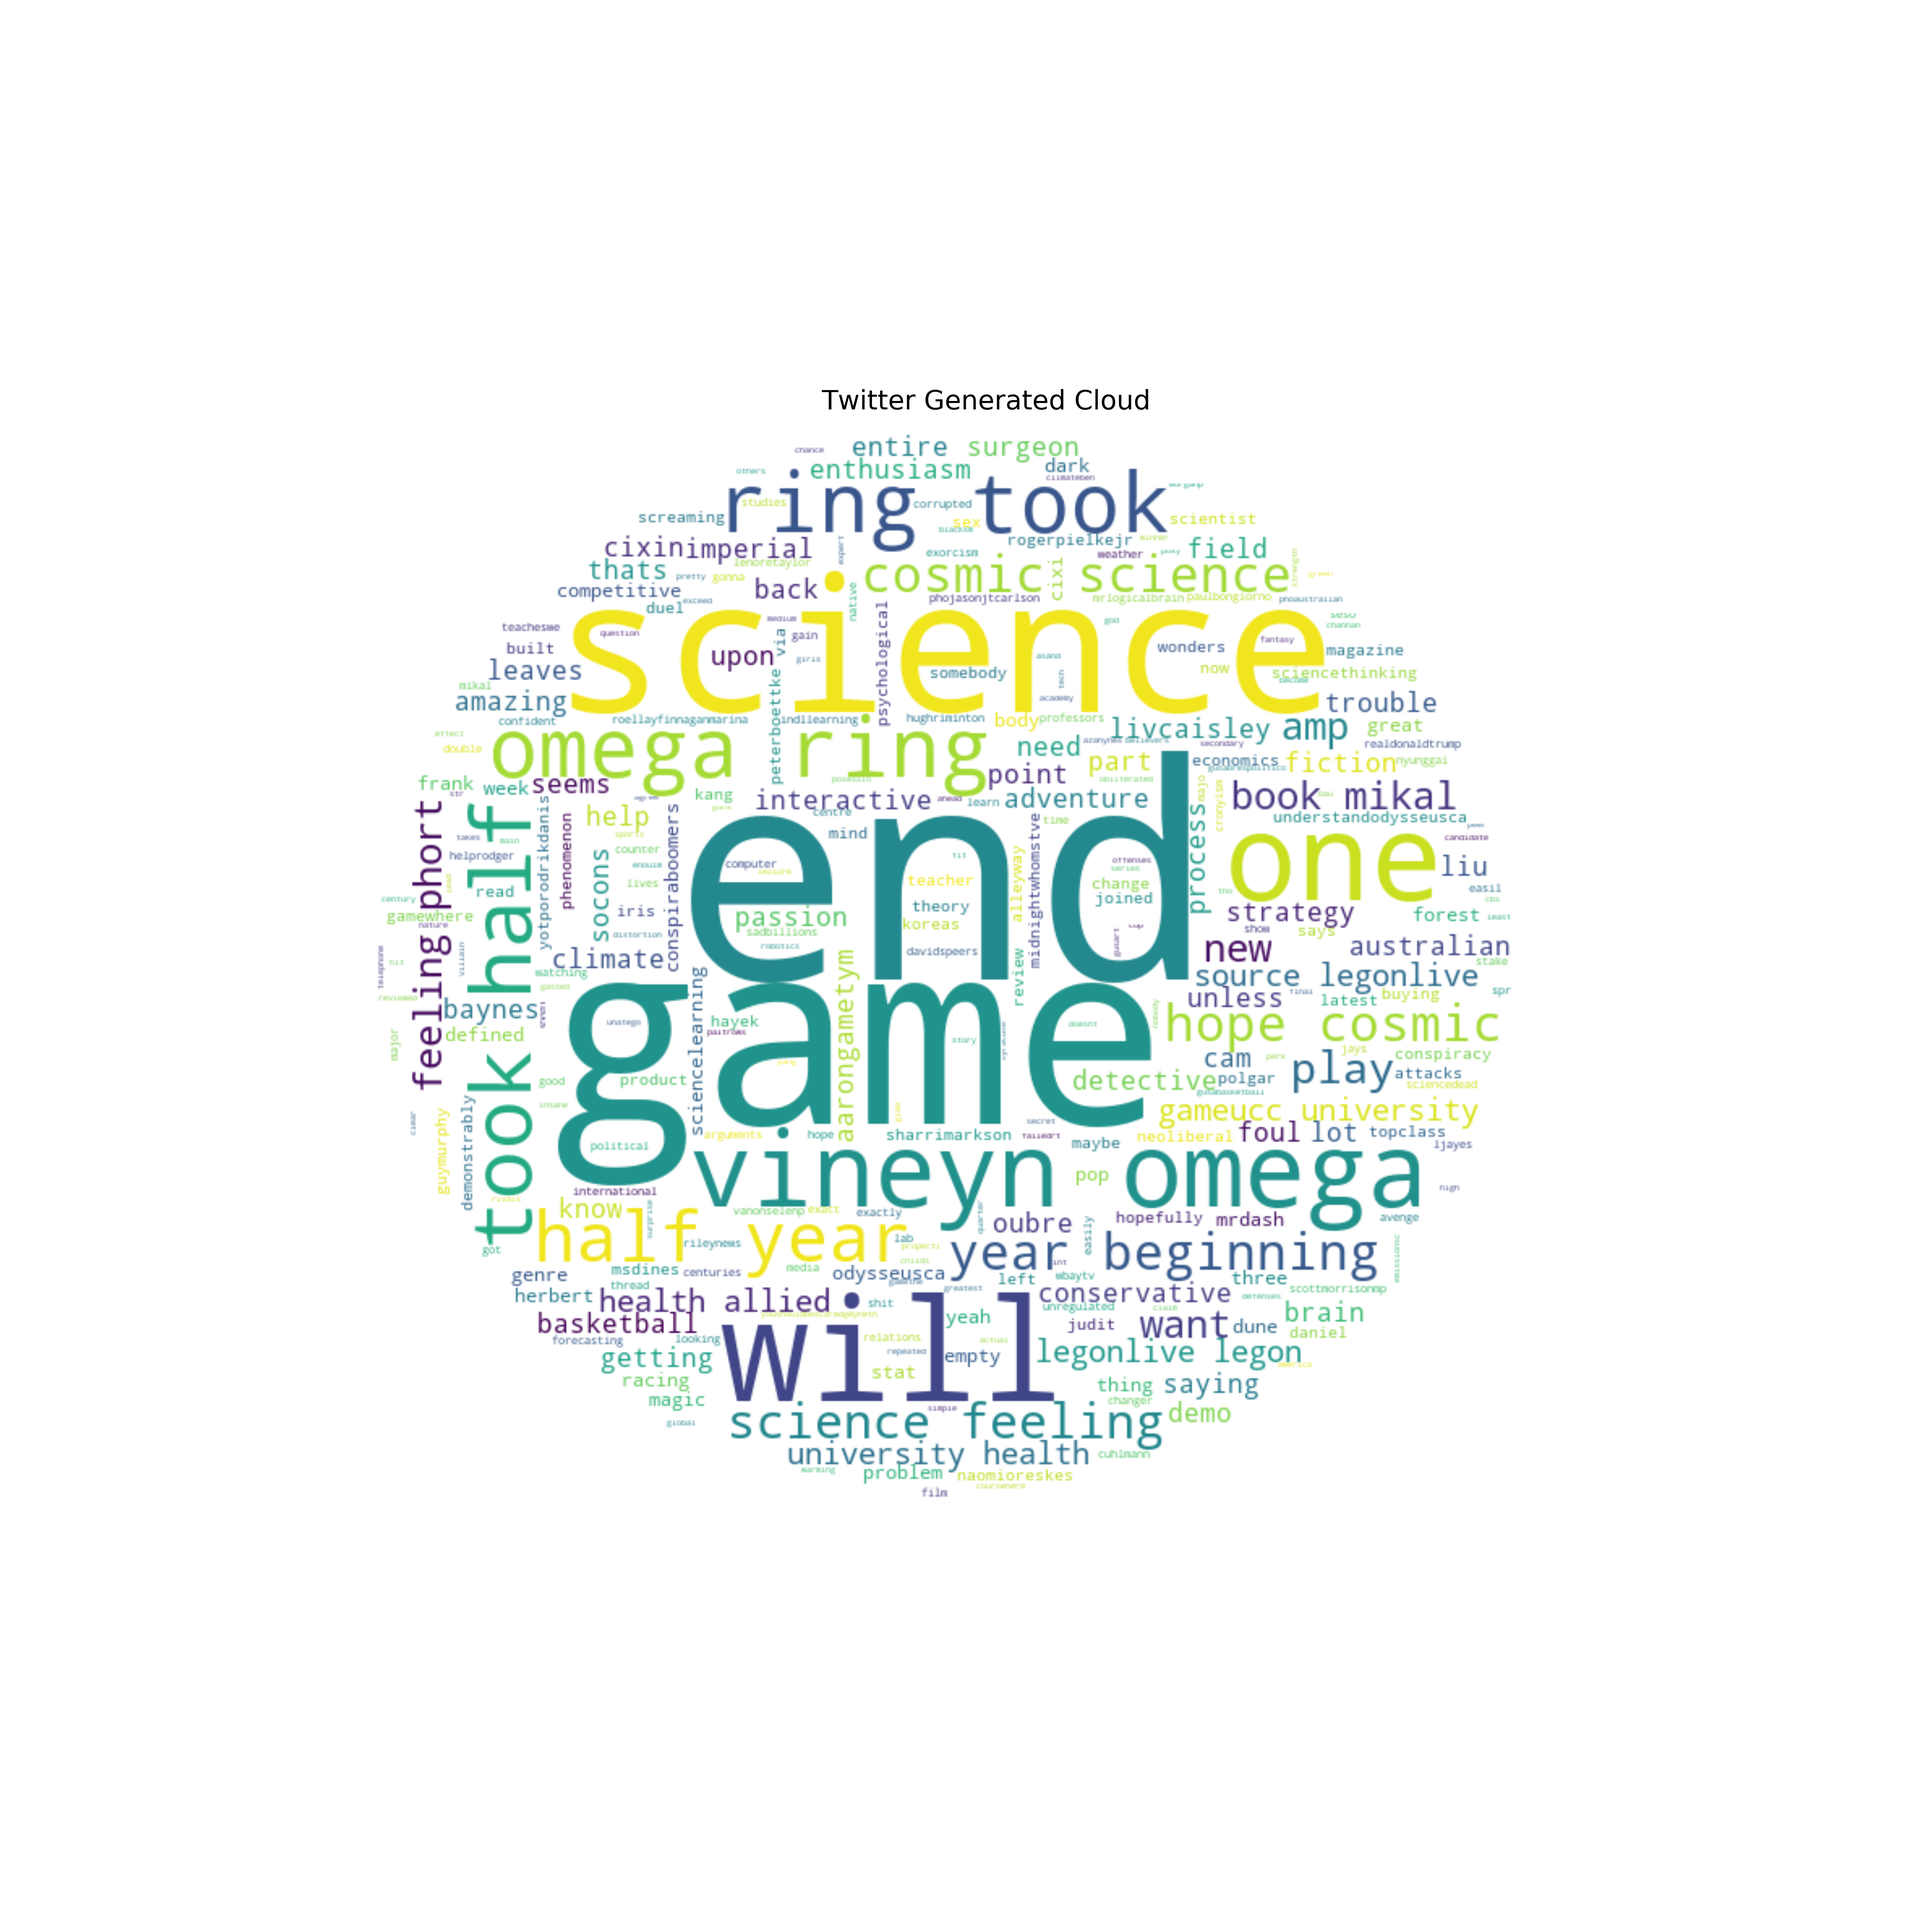
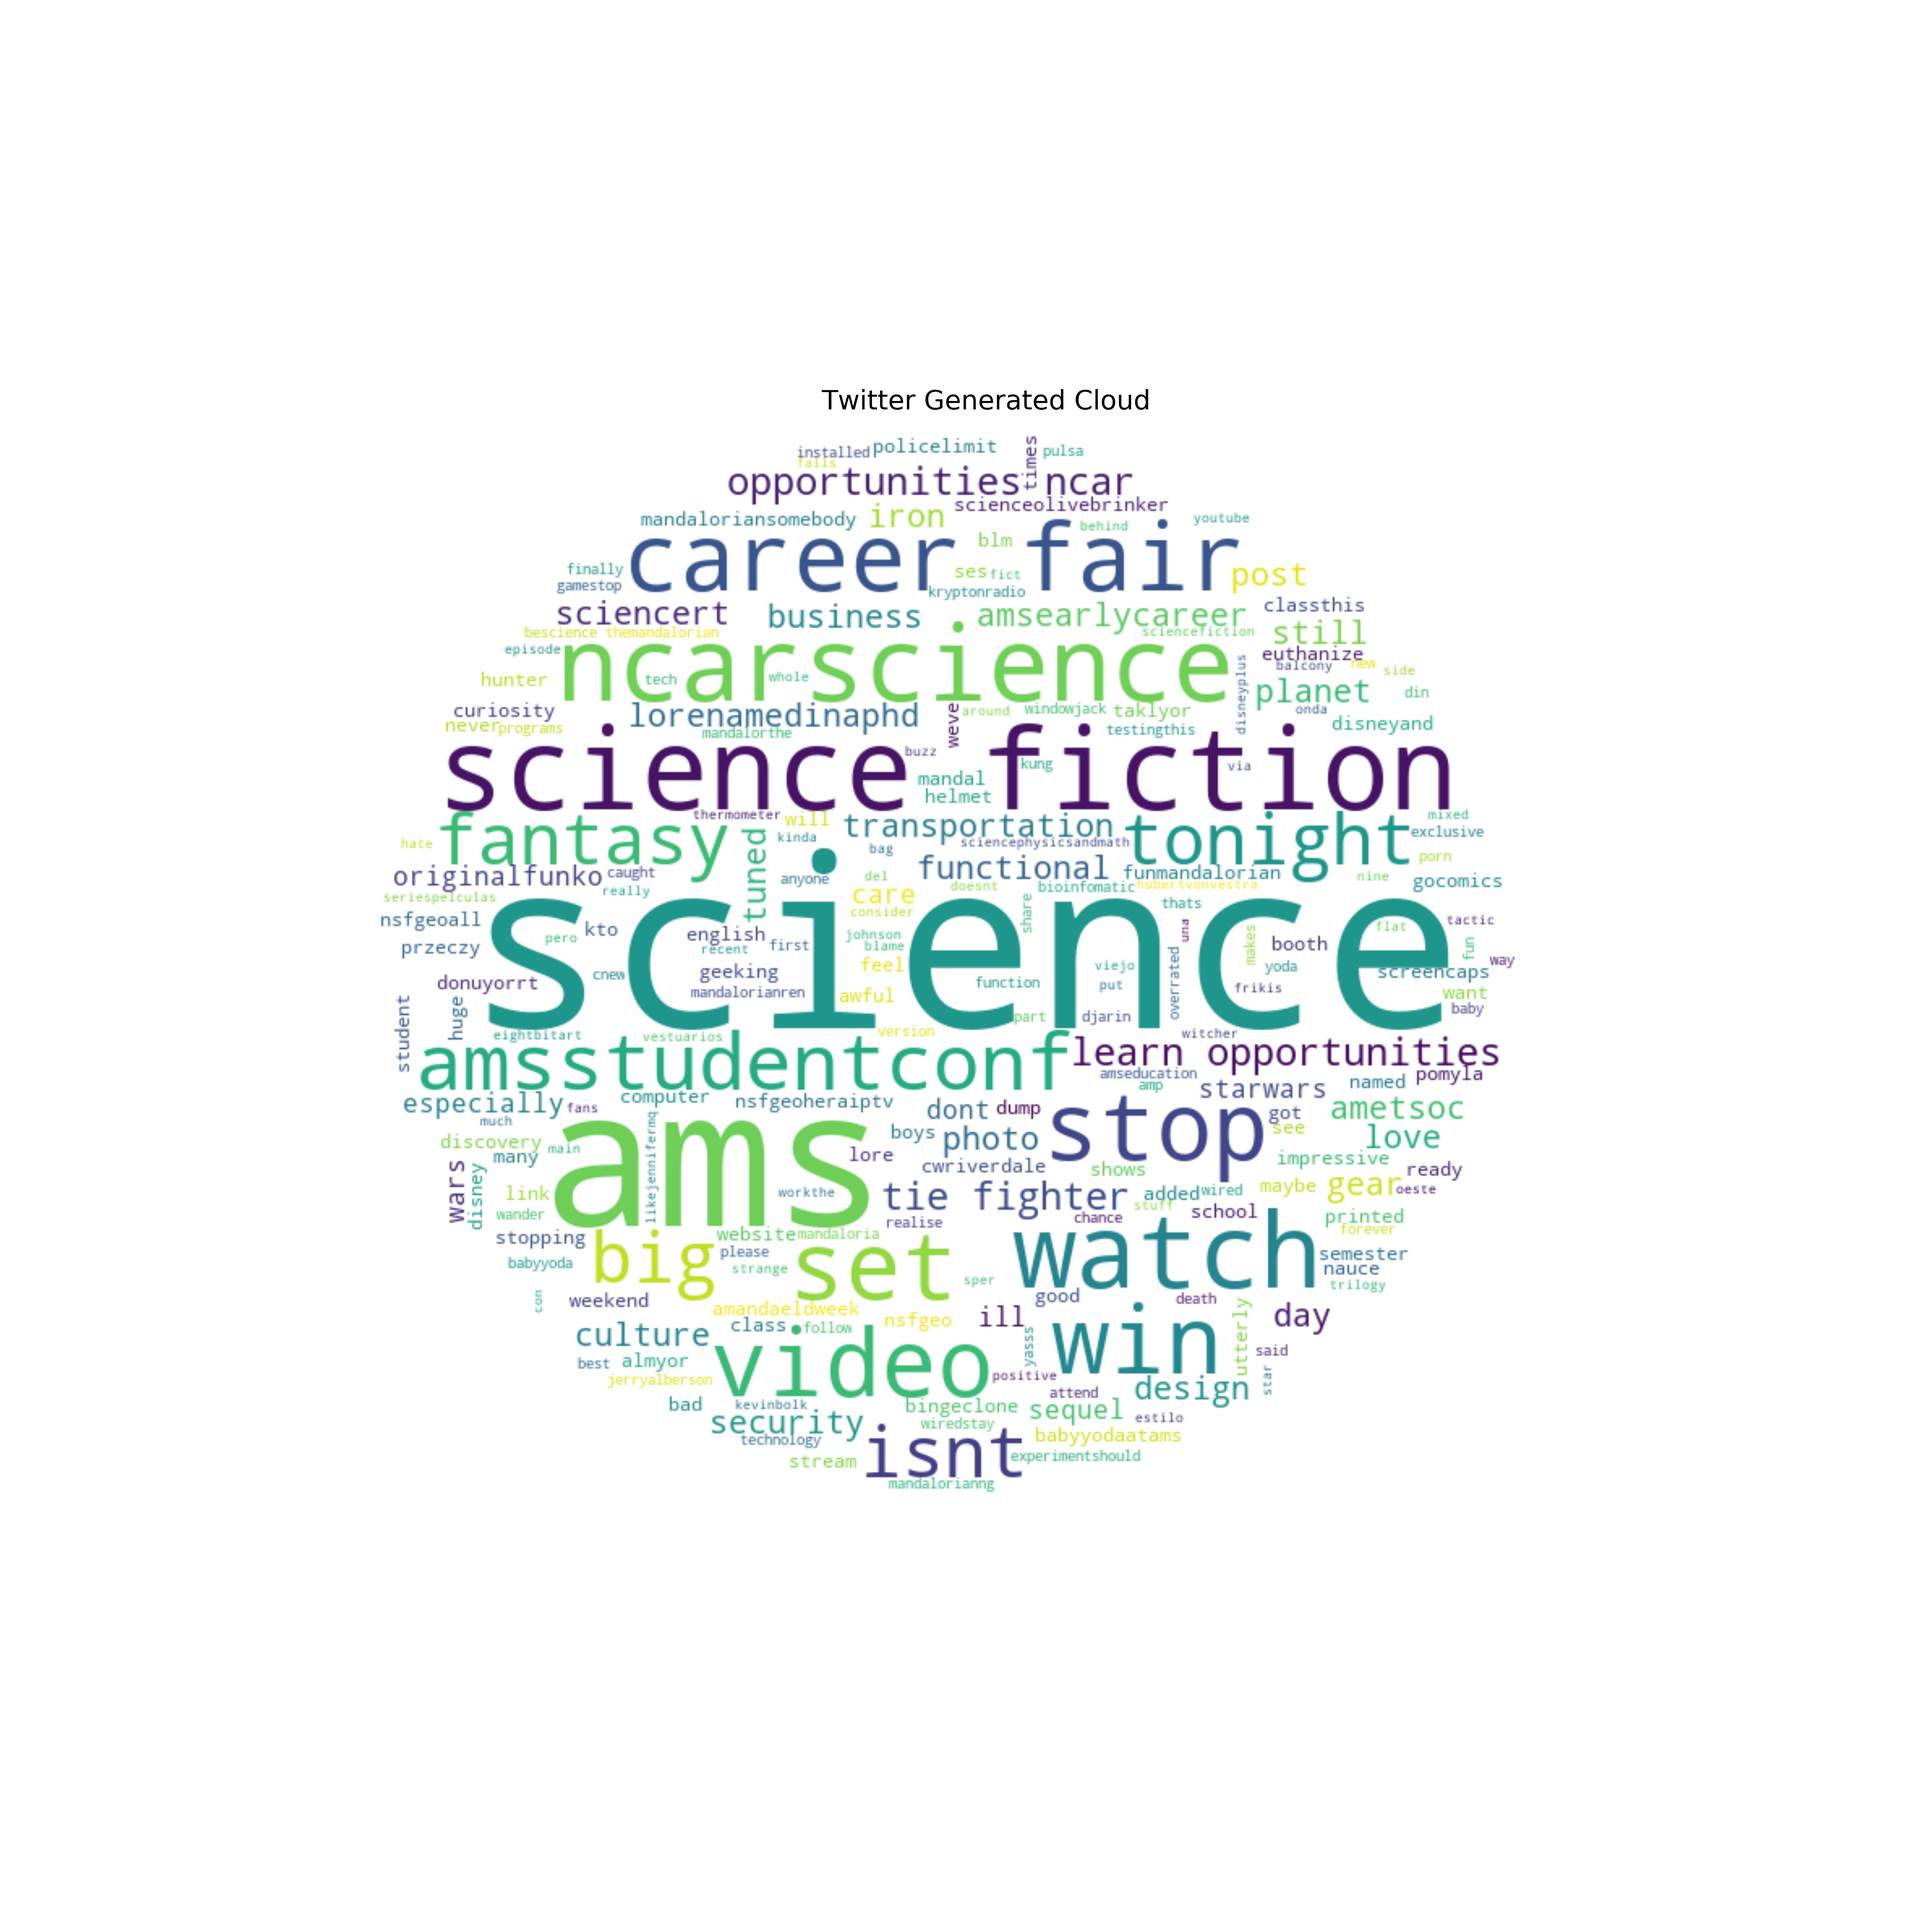
fixed word cloud

Changed region(s): [[0.1872, 0.2184, 0.78, 0.78]]

diff --git a/templates/index.html b/templates/index.html
@@ -31,14 +31,10 @@
             <div id="content">
                 <nav class="navbar navbar-light navbar-expand bg-white shadow mb-4 topbar static-top">
                     <div class="container-fluid"><button class="btn btn-link d-md-none rounded-circle mr-3" id="sidebarToggleTop" type="button"><i class="fas fa-bars"></i></button>
-                        <form class="form-inline d-none d-sm-inline-block mr-auto ml-md-3 my-2 my-md-0 mw-100 navbar-search">
-                            <div class="input-group"><input class="bg-light form-control border-0 small" type="text" placeholder="Search your topic here" name="topic" method="GET">
+                        <form class="form-inline d-none d-sm-inline-block mr-auto ml-md-3 my-2 my-md-0 mw-100 navbar-search" method="GET">
+                            <div class="input-group"><input class="bg-light form-control border-0 small" type="text" placeholder="Search your topic here" name="topic" >
                                 <div class="input-group-append"><button class="btn btn-primary py-0" type="submit"><i class="fas fa-search"></i></button></div>
                             </div>
-                        </form>
-                        <form>
-                            <input type="text" name="topic">
-                            <input type="submit">
                         </form>
                         <!---ul class="nav navbar-nav flex-nowrap ml-auto">
                             <li class="nav-item dropdown d-sm-none no-arrow"><a class="dropdown-toggle nav-link" data-toggle="dropdown" aria-expanded="false" href="#"><i class="fas fa-search"></i></a>
@@ -118,7 +114,7 @@
                                 <h6 class="text-primary font-weight-bold m-0">Top STEM/STEAM Topics</h6>
                             </div>
                             <div class="card-body">
-                                <div><img src="assets/img/wordcloud.png" alt="missing cloud" width="100%" height="100%"></div>
+                                <div><img src="{{img_source}}" alt="missing cloud" width="100%" height="100%"></div>
                        </div>
                     </div>
                 </div>

diff --git a/run.py b/run.py
@@ -1,26 +1,34 @@
-from flask import Flask, render_template, Response, request
+from flask import Flask, render_template, Response, request, flash
 import Twitter as tw
 app = Flask(__name__,
             static_folder='templates/assets')
 
 @app.route('/', methods=["GET"])
-@app.route('/index',methods=["GET"])
+@app.route('/index', methods=["GET"])
 def index():
-    #url = s.plotInterest("Star wars")
+    error = None
     url = "https://plot.ly/~ccharmander4/69.embed"
-    #steam = st.plotSteam()
+        #steam = st.plotSteam()
     steam = "https://plot.ly/~ccharmander4/80.embed"
-    if request.method=="GET":
-        text = request.form["topic"]
-        tw.twitter_wordcloud(text)
-    return render_template("index.html", googleTrend = url, steamTrend = steam)
+    try:
+        #if request.method == "GET":
+            text = request.args.get("topic")
+            tw.twitter_wordcloud(text)
+            img = "assets/img/"+text+".png"
+            return render_template("index.html", googleTrend = url, steamTrend = steam, img_source = img)
 
-""""@app.route('/', methods=["GET"])
+    except Exception as e:
+        #flash(e)
+        #url = s.plotInterest("Star wars")
+
+        return render_template("index.html", googleTrend = url, steamTrend = steam)
+
+@app.route('/', methods=["GET"])
 def generate_wordcloud():
     text = request.form["topic"]
     tw.twitter_wordcloud(text)
     return render_template("table.html")
-"""
+
 @app.route('/table')
 def table():
     return render_template("table.html")

diff --git a/Twitter.py b/Twitter.py
@@ -49,6 +49,6 @@ def twitter_wordcloud(topic):
     plt.imshow(wc, interpolation='bilinear')
     plt.title('Twitter Generated Cloud', size=50)
     plt.axis("off")
-    plt.savefig("templates/assets/img/wordcloud.png")
+    plt.savefig("templates/assets/img/"+topic+".png")
 
 
